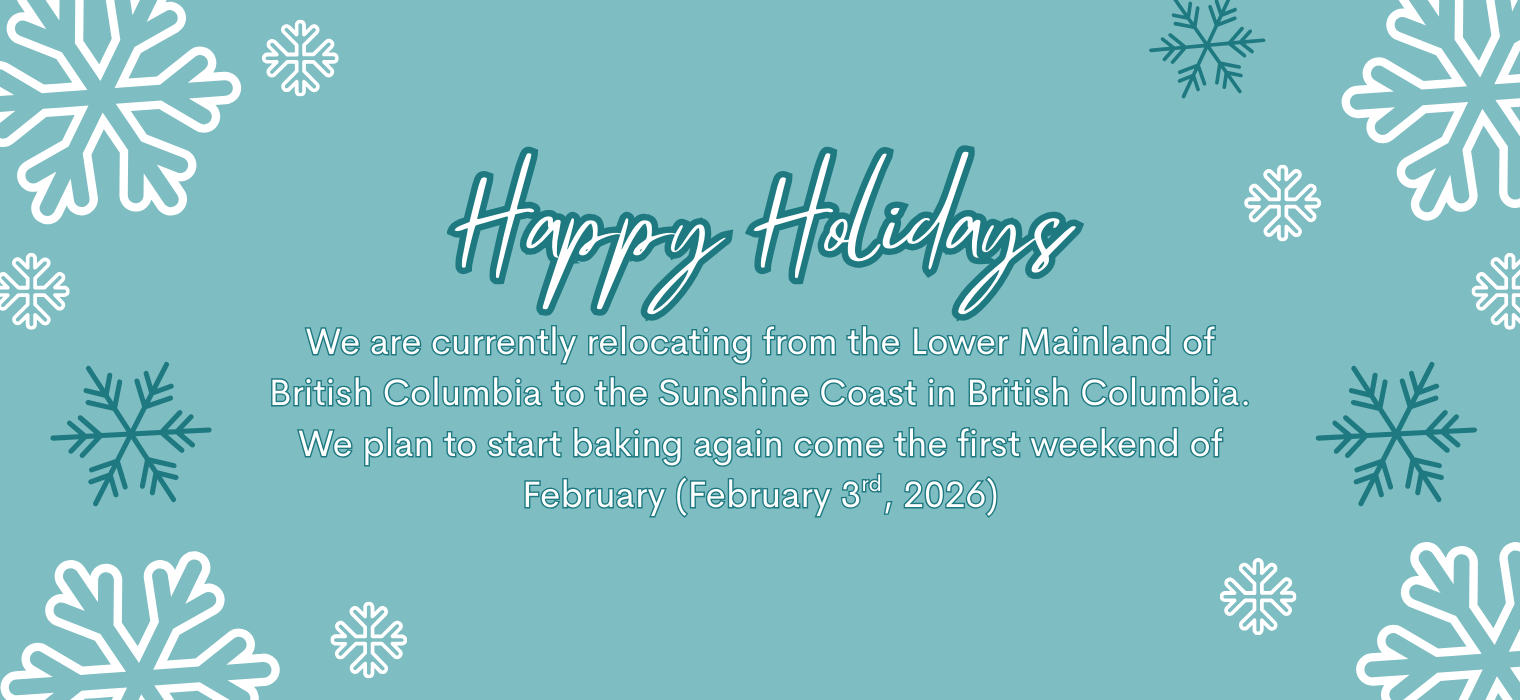
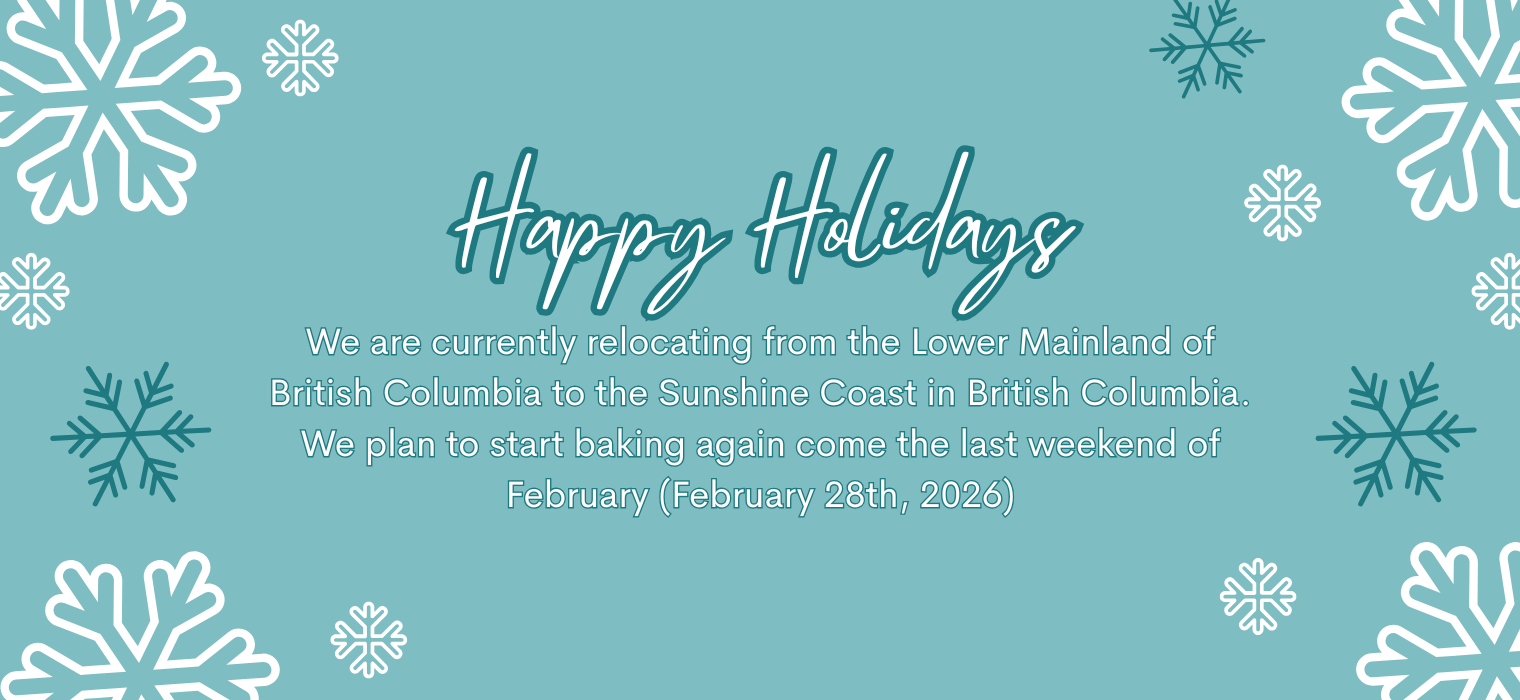
Bread Drop Update

Changed region(s): [[0.1855, 0.6, 0.8039, 0.75]]

diff --git a/index.html b/index.html
@@ -40,6 +40,127 @@
 <main class="content">
 
 
+
+<section id="bread-drop-banner" class="bread-drop-banner" style="background:#6A7752; color:white; text-align:center; padding:10px; position:relative; overflow:hidden;">
+  <p id="countdown-text" class="countdown-text" style="margin:0; font-size:1.5rem; font-weight:bold;">Orders Resume In:</p>
+  <p id="countdown-timer" class="countdown-timer" style="font-size:2rem; margin:0; font-family:Nothing You Could Do, cursive;">
+    Loading countdown...
+  </p>
+</section>
+
+<style>
+@keyframes pulse {
+  0% { transform: scale(1); opacity: 1; }
+  50% { transform: scale(1.02); opacity: 0.9; }
+  100% { transform: scale(1); opacity: 1; }
+}
+
+#bread-drop-banner {
+  display: flex;
+  flex-direction: row;
+  gap: 1rem;
+  align-items: center;
+  justify-content: center;
+}
+
+#bread-drop-banner.active {
+  animation: pulse 1.5s infinite;
+}
+
+ 
+@media (max-width: 600px) {
+  .hero-slider {
+    height: 30vh;  
+  }
+}
+
+ 
+@media (max-width: 420px) {
+  #bread-drop-banner {
+  display: flex;
+  flex-direction: column;
+  gap: 1rem;
+  align-items: center;
+  justify-content: center;
+}
+}
+</style>
+
+<script>
+ 
+const dropStart = new Date("2026-02-28T12:45:00-08:00").getTime(); 
+const dropEnd = dropStart + (24 * 60 * 60 * 1000); 
+const nextDropStart = dropStart + (7 * 24 * 60 * 60 * 1000); 
+
+const countdownTextElement = document.getElementById("countdown-text");
+const countdownElement = document.getElementById("countdown-timer");
+const banner = document.getElementById("bread-drop-banner");
+
+ 
+function disableCart() {
+  document.querySelectorAll(".snipcart-add-item").forEach(btn => {
+    btn.disabled = true;
+    btn.style.opacity = 0.5;
+    btn.title = "Available at the bread drop";
+  });
+}
+
+function enableCart() {
+  document.querySelectorAll(".snipcart-add-item").forEach(btn => {
+    btn.disabled = false;
+    btn.style.opacity = 1;
+    btn.title = "";
+  });
+}
+
+ 
+function updateCountdownDisplay(distance) {
+  const days = Math.floor(distance / (1000 * 60 * 60 * 24));
+  const hours = Math.floor((distance % (1000 * 60 * 60 * 24)) / (1000 * 60 * 60));
+  const minutes = Math.floor((distance % (1000 * 60 * 60)) / (1000 * 60));
+
+  countdownElement.textContent = `${days}d ${hours}h ${minutes}m`;
+}
+
+ 
+function updateCountdown() {
+  const now = new Date().getTime();
+
+  
+  if (now < dropStart) {
+    const distance = dropStart - now;
+    updateCountdownDisplay(distance);
+    disableCart();
+    countdownTextElement.textContent = `Next Bread Drop In:`;
+    return;
+  }
+
+  
+  if (now >= dropStart && now < dropEnd) {
+    countdownElement.textContent = "Bread Drop is live. First come, first serve. Limited quantities.";
+    banner.classList.add("active");
+    enableCart();
+    countdownTextElement.textContent = ``;
+    return;
+  }
+
+  
+  if (now >= dropEnd) {
+    const distance = nextDropStart - now;
+    updateCountdownDisplay(distance);
+    disableCart();
+    countdownTextElement.textContent = `Next Bread Drop In:`;
+    return;
+  }
+}
+
+ 
+disableCart();
+updateCountdown();
+const countdownInterval = setInterval(updateCountdown, 1000);
+</script>
+
+
 <style>
 .hero-slider {
   position: relative;
@@ -69,7 +190,14 @@
  
 @media (max-width: 600px) {
   .hero-slider {
-    height: 40vh;  
+    height: 30vh;  
+  }
+}
+
+ 
+@media (max-width: 400px) {
+  .hero-slider {
+    height: 25vh;  
   }
 }
 
@@ -78,8 +206,8 @@
 <section class="hero-section">
     <div class="hero-slider">
         <img src="/images/hero-images/we-are-moving-annoucement.png" class="active" alt="hero image 1">
-        <img src="/images/hero-images/hero1.jpg" alt="hero image 2">
-        <img src="/images/hero-images/hero2.jpg" alt="hero image 3">
+        <img src="/images/hero-images/bread-drop.png" alt="hero image 2">
+        <img src="/images/hero-images/hero1.png" alt="hero image 3">
     </div>
 </section>
 
@@ -213,7 +341,7 @@
 </main>
 	
 <footer>
-	<p>&copy;2025 Willow and Sage Farms</p>
+	<p>&copy;2026 Willow and Sage Farms</p>
 </footer>
 
 </body>

diff --git a/farmstore/bread/bagel-plain-4pack/index.html b/farmstore/bread/bagel-plain-4pack/index.html
@@ -94,7 +94,7 @@ document.addEventListener('DOMContentLoaded', () => {
 </main>
 	
 <footer>
-	<p>&copy;2025 Willow and Sage Farms</p>
+	<p>&copy;2026 Willow and Sage Farms</p>
 </footer>
 
 </body>

diff --git a/farmstore/bread/english-muffins-plain-4pack/index.html b/farmstore/bread/english-muffins-plain-4pack/index.html
@@ -94,7 +94,7 @@ document.addEventListener('DOMContentLoaded', () => {
 </main>
 	
 <footer>
-	<p>&copy;2025 Willow and Sage Farms</p>
+	<p>&copy;2026 Willow and Sage Farms</p>
 </footer>
 
 </body>

diff --git a/farmstore/bread/garlic-parm-loaf-1lb/index.html b/farmstore/bread/garlic-parm-loaf-1lb/index.html
@@ -94,7 +94,7 @@ document.addEventListener('DOMContentLoaded', () => {
 </main>
 	
 <footer>
-	<p>&copy;2025 Willow and Sage Farms</p>
+	<p>&copy;2026 Willow and Sage Farms</p>
 </footer>
 
 </body>

diff --git a/farmstore/bread/plain-loaf-1lb/index.html b/farmstore/bread/plain-loaf-1lb/index.html
@@ -94,7 +94,7 @@ document.addEventListener('DOMContentLoaded', () => {
 </main>
 	
 <footer>
-	<p>&copy;2025 Willow and Sage Farms</p>
+	<p>&copy;2026 Willow and Sage Farms</p>
 </footer>
 
 </body>

diff --git a/farmstore/cookies/chocolate-marshmellow-cookie-4oz-single/index.html b/farmstore/cookies/chocolate-marshmellow-cookie-4oz-single/index.html
@@ -94,7 +94,7 @@ document.addEventListener('DOMContentLoaded', () => {
 </main>
 	
 <footer>
-	<p>&copy;2025 Willow and Sage Farms</p>
+	<p>&copy;2026 Willow and Sage Farms</p>
 </footer>
 
 </body>

diff --git a/farmstore/cookies/chocolate-pretzel-cookie-4oz-single/index.html b/farmstore/cookies/chocolate-pretzel-cookie-4oz-single/index.html
@@ -94,7 +94,7 @@ document.addEventListener('DOMContentLoaded', () => {
 </main>
 	
 <footer>
-	<p>&copy;2025 Willow and Sage Farms</p>
+	<p>&copy;2026 Willow and Sage Farms</p>
 </footer>
 
 </body>

diff --git a/farmstore/cookies/cow-cookie-4oz-single/index.html b/farmstore/cookies/cow-cookie-4oz-single/index.html
@@ -94,7 +94,7 @@ document.addEventListener('DOMContentLoaded', () => {
 </main>
 	
 <footer>
-	<p>&copy;2025 Willow and Sage Farms</p>
+	<p>&copy;2026 Willow and Sage Farms</p>
 </footer>
 
 </body>

diff --git a/farmstore/cookies/gingerbread-cookie-4oz-single/index.html b/farmstore/cookies/gingerbread-cookie-4oz-single/index.html
@@ -94,7 +94,7 @@ document.addEventListener('DOMContentLoaded', () => {
 </main>
 	
 <footer>
-	<p>&copy;2025 Willow and Sage Farms</p>
+	<p>&copy;2026 Willow and Sage Farms</p>
 </footer>
 
 </body>

diff --git a/farmstore/cookies/mint-chocolate-cookie-4oz-single/index.html b/farmstore/cookies/mint-chocolate-cookie-4oz-single/index.html
@@ -94,7 +94,7 @@ document.addEventListener('DOMContentLoaded', () => {
 </main>
 	
 <footer>
-	<p>&copy;2025 Willow and Sage Farms</p>
+	<p>&copy;2026 Willow and Sage Farms</p>
 </footer>
 
 </body>

diff --git a/farmstore/cookies/pumpkin-spice-cookie-4oz-single/index.html b/farmstore/cookies/pumpkin-spice-cookie-4oz-single/index.html
@@ -94,7 +94,7 @@ document.addEventListener('DOMContentLoaded', () => {
 </main>
 	
 <footer>
-	<p>&copy;2025 Willow and Sage Farms</p>
+	<p>&copy;2026 Willow and Sage Farms</p>
 </footer>
 
 </body>

diff --git a/farmstore/pantry/blueberry-jam-250ml/index.html b/farmstore/pantry/blueberry-jam-250ml/index.html
@@ -94,7 +94,7 @@ document.addEventListener('DOMContentLoaded', () => {
 </main>
 	
 <footer>
-	<p>&copy;2025 Willow and Sage Farms</p>
+	<p>&copy;2026 Willow and Sage Farms</p>
 </footer>
 
 </body>
